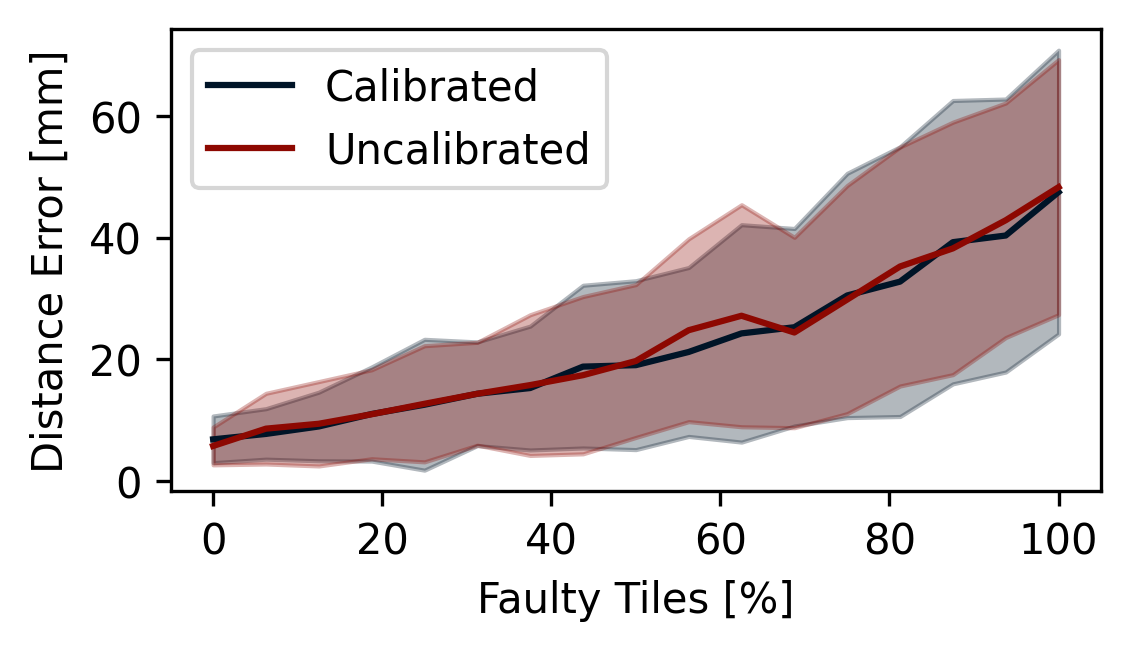
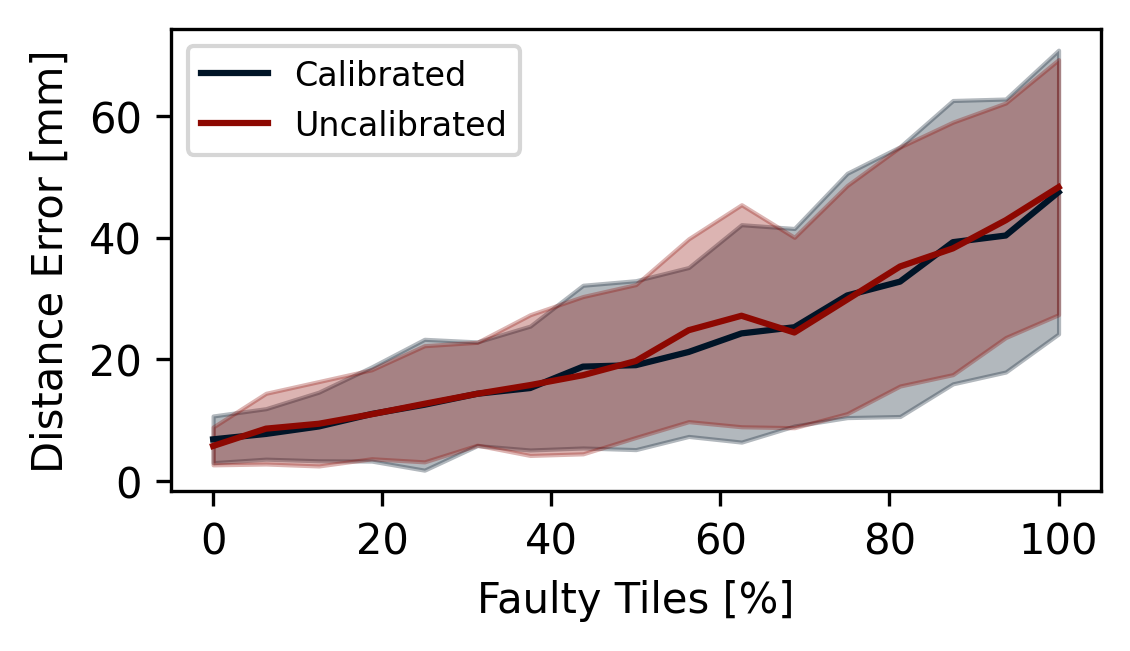
minor

Changed region(s): [[0.1549, 0.0614, 0.5575, 0.3072]]

diff --git a/Exp_ResultAnalysis_FaultTolerance.py b/Exp_ResultAnalysis_FaultTolerance.py
@@ -90,8 +90,8 @@ def make_plot(names):
         color = palette[i]
         plt.fill_between(percent_n_faulty_tiles*100, means-stds, means+stds, color=color, alpha=0.3)
         plt.plot(percent_n_faulty_tiles*100, means, label=name, color=color)
-    
-    plt.legend(loc='upper left')
+    #plt.axhline(_config.TILE_SIZE/2, color='black', linestyle='--', linewidth=1, label='Distance between sensors')
+    plt.legend(loc='upper left', fontsize=8)
     plt.xlabel('Faulty Tiles [%]')
     plt.ylabel('Distance Error [mm]')
     #plt.title('Distance Error Histogram')
